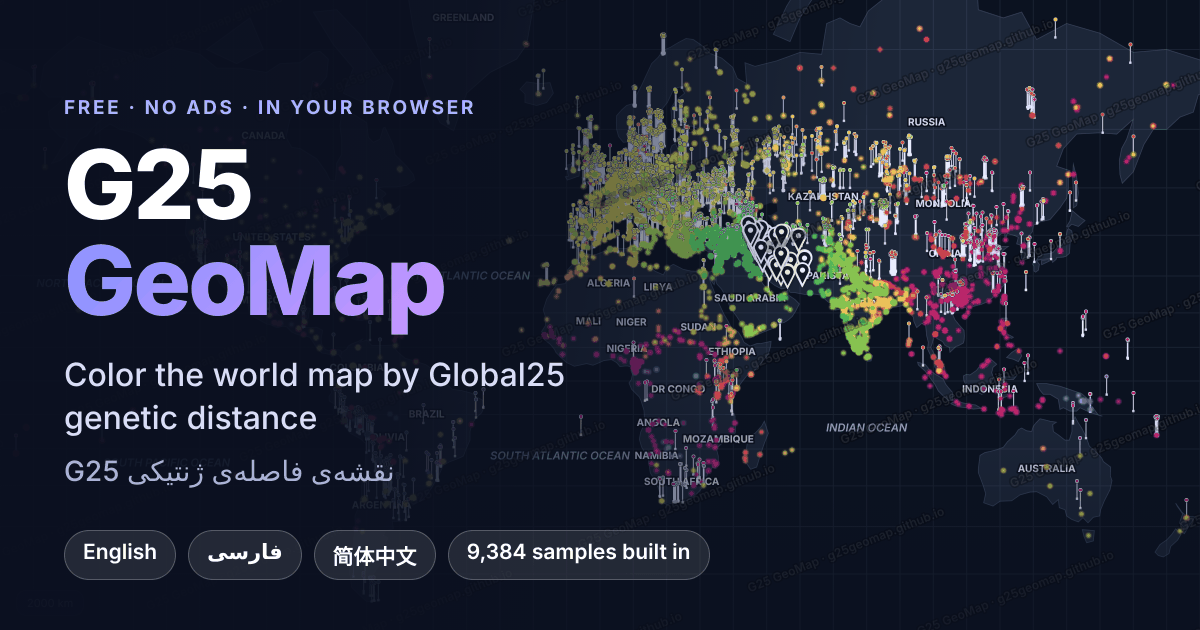
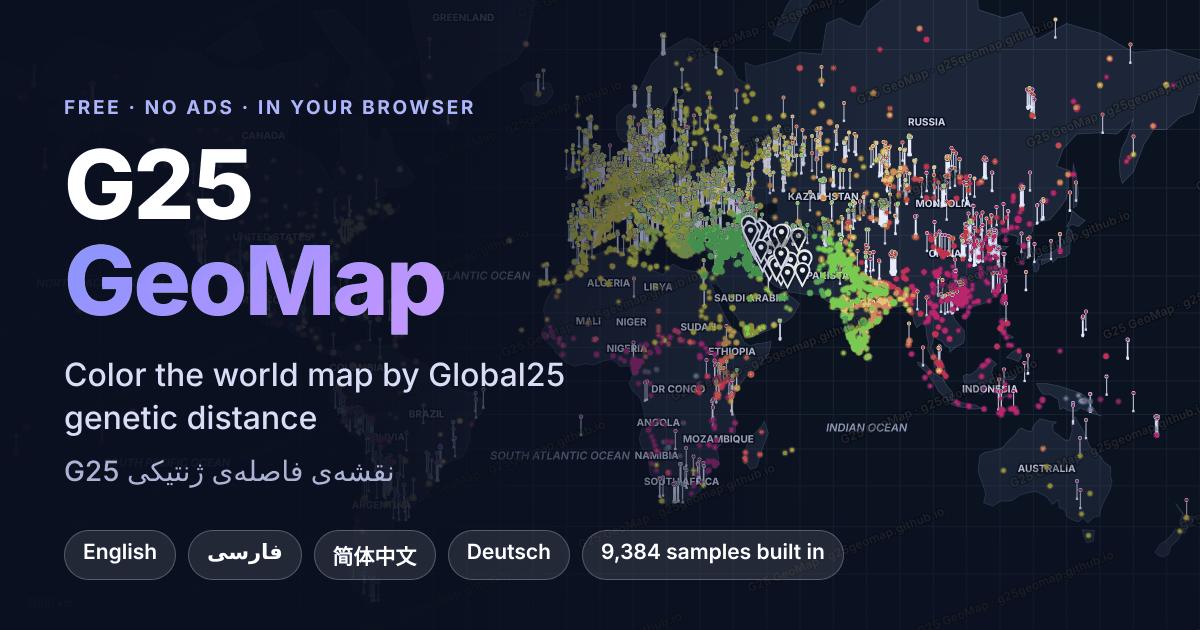
Add German (de): interface, About and Feedback pages
- lang/de.json (217 interface + 32 page strings), about-de.html, feedback-de.html
- German is registered in the language menu, the hreflang clusters, the sitemap and the JSON-LD
- the social preview image lists Deutsch next to English, Persian and Chinese

Claude-Session: https://claude.ai/code/session_019TTGuyvGB9n4azmbKhvDKb

diff --git a/about-de.html b/about-de.html
@@ -1,0 +1,80 @@
+<!doctype html>
+<html lang="de" dir="ltr">
+<head>
+<meta charset="utf-8">
+<meta name="viewport" content="width=device-width, initial-scale=1">
+<title>Über G25 GeoMap – kostenlose Karte der genetischen G25-Distanz</title>
+<meta name="description" content="Kostenlose Online-Karte, die die Welt nach der genetischen Distanz (Global25, G25) zu den von Ihnen gewählten Proben einfärbt. Tausende Proben integriert, nichts hochzuladen, alles im Browser. Mehrere Sprachen.">
+<meta name="robots" content="index,follow">
+<link rel="canonical" href="https://g25geomap.github.io/about-de.html">
+<link rel="alternate" hreflang="en" href="https://g25geomap.github.io/about.html">
+<link rel="alternate" hreflang="fa" href="https://g25geomap.github.io/about-fa.html">
+<link rel="alternate" hreflang="zh-Hans" href="https://g25geomap.github.io/about-zh-hans.html">
+<link rel="alternate" hreflang="de" href="https://g25geomap.github.io/about-de.html">
+<link rel="alternate" hreflang="x-default" href="https://g25geomap.github.io/about.html">
+<link rel="icon" type="image/png" href="assets/favicon.png">
+<meta property="og:type" content="website">
+<meta property="og:title" content="Über G25 GeoMap – kostenlose Karte der genetischen G25-Distanz">
+<meta property="og:description" content="Kostenlose Online-Karte, die die Welt nach der genetischen Distanz (Global25, G25) zu den von Ihnen gewählten Proben einfärbt. Tausende Proben integriert, nichts hochzuladen, alles im Browser. Mehrere Sprachen.">
+<meta property="og:url" content="https://g25geomap.github.io/about-de.html">
+<meta property="og:image" content="https://g25geomap.github.io/assets/og-image.png">
+<meta property="og:locale" content="de_DE">
+<meta property="og:locale:alternate" content="en_US">
+<meta property="og:locale:alternate" content="fa_IR">
+<meta property="og:locale:alternate" content="zh_CN">
+<style>
+:root{--bg:#f6f7fc;--surface:#fff;--ink:#141a33;--ink2:#4a5273;--line:#e3e6f2;--accent:#5b6cff;--accent2:#8b5cff}
+@media (prefers-color-scheme:dark){:root{--bg:#0b1020;--surface:#141a33;--ink:#eaedfb;--ink2:#a9b1d3;--line:#252d52}}
+*{box-sizing:border-box}
+body{margin:0;background:var(--bg);color:var(--ink);font:16px/1.75 system-ui,-apple-system,"Segoe UI",Roboto,Tahoma,sans-serif}
+main{max-width:820px;margin:0 auto;padding:28px 20px 64px}
+header.top{display:flex;align-items:center;gap:12px;flex-wrap:wrap;margin-bottom:8px}
+header.top a.brand{font-weight:800;color:var(--ink);text-decoration:none;font-size:18px}
+header.top .sp{flex:1}
+a{color:var(--accent)}
+.cta{display:inline-block;background:linear-gradient(135deg,var(--accent),var(--accent2));color:#fff!important;text-decoration:none;padding:10px 18px;border-radius:12px;font-weight:700}
+.cta.alt{background:linear-gradient(135deg,#ff6b9d,#ff8e53)}
+h1{font-size:32px;line-height:1.25;margin:18px 0 10px;letter-spacing:-.5px}
+h2{font-size:21px;margin:34px 0 8px}
+p,li{color:var(--ink2)}
+li{margin:6px 0}
+code{background:var(--surface);border:1px solid var(--line);border-radius:6px;padding:1px 6px;font-size:.92em;direction:ltr;unicode-bidi:isolate}
+.card{background:var(--surface);border:1px solid var(--line);border-radius:16px;padding:18px 20px;margin:18px 0}
+.row{display:flex;gap:12px;flex-wrap:wrap;margin:18px 0}
+img.hero{max-width:100%;border-radius:16px;border:1px solid var(--line);margin:16px 0}
+footer{margin-top:40px;color:var(--ink2);font-size:14px}
+details.lm{position:relative}
+details.lm>summary{list-style:none;cursor:pointer;display:inline-flex;align-items:center;gap:6px;padding:6px 11px;border:1px solid var(--line);border-radius:10px;background:var(--surface);color:var(--ink);font-size:14px;line-height:1.5;user-select:none}
+details.lm>summary::-webkit-details-marker{display:none}
+details.lm>summary:hover,details.lm[open]>summary,details.lm>summary:focus-visible{border-color:var(--accent)}
+details.lm svg{flex:none;opacity:.8}
+details.lm ul{position:absolute;inset-inline-end:0;top:calc(100% + 6px);z-index:5;margin:0;padding:6px;list-style:none;min-width:190px;max-height:min(60vh,420px);overflow:auto;background:var(--surface);border:1px solid var(--line);border-radius:12px;box-shadow:0 12px 34px rgba(10,20,50,.2)}
+details.lm li{margin:0}
+details.lm li a{display:block;padding:6px 10px;border-radius:8px;color:var(--ink);text-decoration:none;font-size:14px;line-height:1.5;white-space:nowrap}
+details.lm li a:hover,details.lm li a:focus-visible{background:var(--bg);color:var(--accent)}
+details.lm li a[aria-current]{font-weight:700;color:var(--accent)}
+html:lang(zh-Hans) body{font-family:system-ui,-apple-system,"PingFang SC","Microsoft YaHei","Noto Sans CJK SC","Noto Sans SC",sans-serif}
+html:lang(zh-Hant) body{font-family:system-ui,-apple-system,"PingFang TC","Microsoft JhengHei","Noto Sans CJK TC","Noto Sans TC",sans-serif}
+html:lang(ja) body{font-family:system-ui,-apple-system,"Hiragino Sans","Yu Gothic UI","Meiryo","Noto Sans CJK JP","Noto Sans JP",sans-serif}
+html:lang(ko) body{font-family:system-ui,-apple-system,"Apple SD Gothic Neo","Malgun Gothic","Noto Sans CJK KR","Noto Sans KR",sans-serif}
+html:lang(ar) body,html:lang(ur) body{font-family:"Noto Sans Arabic","Noto Naskh Arabic",Tahoma,"Segoe UI",system-ui,-apple-system,Roboto,Arial,sans-serif}
+html:lang(zh) h1,html:lang(ja) h1,html:lang(ko) h1,html:lang(hi) h1,html:lang(bn) h1,html:lang(th) h1,html:lang(hy) h1,html:lang(ka) h1,html[dir=rtl] h1{letter-spacing:normal}
+</style>
+</head>
+<body>
+<main>
+<header class="top"><a class="brand" href="index.html?lang=de">G25 GeoMap</a><span class="sp"></span><a href="feedback-de.html">Feedback</a><details class="lm"><summary aria-label="Sprache"><svg viewBox="0 0 24 24" width="16" height="16" aria-hidden="true" fill="none" stroke="currentColor" stroke-width="1.8" stroke-linecap="round" stroke-linejoin="round"><circle cx="12" cy="12" r="9"/><path d="M3 12h18M12 3c2.5 2.6 3.8 5.6 3.8 9s-1.3 6.4-3.8 9c-2.5-2.6-3.8-5.6-3.8-9S9.5 5.6 12 3z"/></svg><span>Deutsch</span></summary><ul><li><a href="about.html" lang="en" hreflang="en">English</a></li><li><a href="about-fa.html" lang="fa" hreflang="fa">فارسی</a></li><li><a href="about-zh-hans.html" lang="zh-Hans" hreflang="zh-Hans">简体中文</a></li><li><a href="about-de.html" lang="de" hreflang="de" aria-current="true">Deutsch</a></li></ul></details></header>
+<h1>G25 GeoMap – eine kostenlose Karte der genetischen Distanz</h1>
+<p>G25 GeoMap ist ein kostenloses, werbefreies Web-Tool, das eine Weltkarte nach der <b>genetischen Distanz</b> zwischen den von Ihnen angehakten Proben und jeder anderen Probe seines integrierten Datensatzes einfärbt. Die Distanzen sind euklidische Distanzen über die 25 Koordinaten von Global25 (G25); jede andere Probe wird nach ihrer Distanz zur <b>nächsten angehakten Probe</b> eingefärbt.</p>
+<div class="row"><a class="cta" href="index.html?lang=de">Karte öffnen</a><a class="cta alt" href="index.html?lang=de#donate">Die Seite unterstützen</a></div>
+<img class="hero" src="assets/og-image.png" width="1200" height="630" alt="G25 GeoMap" loading="lazy">
+<h2 id="features">Was Sie tun können</h2><ul><li>Erkunden Sie einen integrierten Datensatz mit 9.384 Proben von Global25 (G25) – modern und antik – auf einer Weltkarte. Es muss nichts hochgeladen werden.</li><li>Haken Sie ein ganzes Land oder einzelne Proben an und sehen Sie zu, wie sich die Karte einfärbt: von nah bis fern.</li><li>Filtern Sie moderne und historische Proben sowie nach Quellpräfix; angehakte Proben bleiben immer sichtbar.</li><li>Durchsuchen Sie eine Rangliste der nächsten oder fernsten Proben.</li><li>Speichern Sie die aktuelle Ansicht als PNG-Bild (mit Legende und einem kleinen Wasserzeichen) oder exportieren Sie alle Distanzen als CSV-Tabelle.</li><li>Nutzen Sie die Oberfläche in mehreren Sprachen, im dunklen oder hellen Design.</li></ul><h2 id="howto">So geht’s</h2><ol><li>Öffnen Sie die Karte – der Datensatz wird automatisch geladen.</li><li>Haken Sie im Bereich „Proben“ ein Land oder einzelne Proben an oder klicken Sie auf Punkte der Karte.</li><li>Lesen Sie die Farben anhand der Legende ab; fahren Sie mit der Maus über einen Punkt, um Name und Distanz zu sehen; mit dem Scrollen zoomen Sie, durch Ziehen verschieben Sie die Karte.</li><li>Passen Sie Filter, Farbskala und Darstellung an und speichern Sie dann ein PNG oder CSV.</li></ol><p>Beim ersten Besuch öffnet sich ein kurzer geführter Rundgang, den Sie jederzeit über die Schaltfläche <b>Rundgang</b> erneut öffnen können.</p><h2 id="data">Die Daten</h2><p>Die Karte enthält einen Datensatz, <code>AllG25_final_prefixed_v7.txt</code>: 9.384 Proben, jede mit ihren 25 G25-Koordinaten. Eine Probe wird bei dem Breiten- und Längengrad platziert, der am Ende ihres Namens steht, zum Beispiel <code>Iran_Tehran_Sample-01_35.71_51.41</code>. Namen, die <code>Historical</code> enthalten, gelten als historische Proben, und das Präfix eines Namens zeigt, aus welcher Sammlung die Probe stammt (<code>moriopoulos_</code> 8.299, <code>G25_</code> 1.085 Proben).</p><p>Das Koordinatensystem Global25 (G25) wurde von Davidski (Eurogenes) entwickelt. G25 GeoMap ist ein unabhängiger Viewer: Die Anerkennung für die Probensätze gebührt den Menschen, die sie gesammelt und veröffentlicht haben; die Seite ist weder mit ihnen verbunden noch von ihnen unterstützt.</p><h2 id="privacy">Datenschutz</h2><p>Alles wird in Ihrem Browser mit JavaScript berechnet. Die Seite lädt ihre Datensatzdatei von derselben Seite und sendet nichts über Sie irgendwohin. Es gibt kein Konto, keine Werbung und keine Tracking-Skripte. Die Seite merkt sich nur Ihre Einstellungen (Sprache, Design, Breite der Seitenleiste, ob Sie den Rundgang gesehen oder das Maskottchen ausgeblendet haben) im lokalen Speicher Ihres Browsers.</p><p>Optionale Kartenhintergründe werden von Kachelservern Dritter (Esri oder OpenStreetMap) geladen, die den angezeigten Kartenausschnitt und Ihre IP-Adresse sehen können; der Standardhintergrund „Keine Kacheln“ lädt nichts. Wenn Sie auf die optionale WalletConnect-Spendenschaltfläche klicken, wird eine Wallet-Bibliothek vom jsDelivr-CDN geladen und verbindet sich nur in diesem Moment mit dem WalletConnect-Netzwerk. Wenn Sie die Feedback-Seite öffnen und klicken, um das Kommentarfeld anzuzeigen, wird es von giscus (giscus.app) und GitHub bereitgestellt, die dann Ihre IP-Adresse sehen können; vor dem Klick wird nichts von ihnen geladen.</p><h2 id="support">Die Seite unterstützen</h2><p>G25 GeoMap ist kostenlos. Wenn es Ihnen geholfen hat und Sie Danke sagen möchten, können Sie eine kleine Krypto-Spende senden – sie ist völlig freiwillig. Öffnen Sie Ihre Wallet mit einem Klick oder kopieren Sie eine Adresse (zuerst USDT auf TRON, dann USDT und USDC in anderen Netzwerken, TRX, ETH, BNB, BTC, TON, SOL). Jeder Betrag wird geschätzt.</p><h2 id="feedback">Feedback &amp; Vorschläge</h2><p>Einen Fehler gefunden oder Kritik bzw. einen Vorschlag? Hinterlassen Sie einen Kommentar auf der <a href="feedback-de.html">Feedback-Seite</a>. Kommentare sind öffentlich und nutzen Ihr kostenloses GitHub-Konto; Sie können auch direkt auf GitHub ein Issue eröffnen.</p><h2 id="notes">Gut zu wissen</h2><p>Dieses Tool dient der Bildung und der Neugier. Distanzen zwischen Proben sind eine statistische Zusammenfassung genetischer Ähnlichkeit und stellen keine medizinische, rechtliche oder Herkunftsberatung dar.</p><p>Optionale Basiskarten-Kacheln (OpenStreetMap-Mitwirkende, Esri) werden nur von ihren Anbietern geladen, wenn Sie sie auswählen. Mit dieser Seite erstellte Karten und PNG-Bilder tragen ein kleines Wasserzeichen mit dem Namen der Seite.</p><p>Die Oberfläche und diese Seiten sind in mehreren Sprachen verfügbar. Die Übersetzungen wurden mit KI-Unterstützung erstellt und können Fehler enthalten – bitte melden Sie diese auf der Feedback-Seite.</p>
+<footer>&copy; G25 GeoMap &middot; <a href="index.html?lang=de">Karte öffnen</a> &middot; <a href="feedback-de.html">Feedback</a></footer>
+</main>
+<script>
+(function(){var d=document.querySelector('details.lm');if(!d)return;
+document.addEventListener('click',function(e){if(d.open&&!d.contains(e.target))d.open=false;});
+document.addEventListener('keydown',function(e){if(e.key==='Escape'&&d.open){d.open=false;d.querySelector('summary').focus();}});})();
+</script>
+</body>
+</html>

diff --git a/feedback-de.html b/feedback-de.html
@@ -1,0 +1,99 @@
+<!doctype html>
+<html lang="de" dir="ltr">
+<head>
+<meta charset="utf-8">
+<meta name="viewport" content="width=device-width, initial-scale=1">
+<title>Feedback &amp; Vorschläge – G25 GeoMap</title>
+<meta name="description" content="Kritik, Ideen, ein gefundener Fehler, eine vermisste Funktion – all das macht das Tool besser. Hinterlassen Sie unten einen Kommentar. Kommentare sind öffentlich, und zum Schreiben benötigen Sie ein kostenloses GitHub-Konto.">
+<meta name="robots" content="index,follow">
+<link rel="canonical" href="https://g25geomap.github.io/feedback-de.html">
+<link rel="alternate" hreflang="en" href="https://g25geomap.github.io/feedback.html">
+<link rel="alternate" hreflang="fa" href="https://g25geomap.github.io/feedback-fa.html">
+<link rel="alternate" hreflang="zh-Hans" href="https://g25geomap.github.io/feedback-zh-hans.html">
+<link rel="alternate" hreflang="de" href="https://g25geomap.github.io/feedback-de.html">
+<link rel="alternate" hreflang="x-default" href="https://g25geomap.github.io/feedback.html">
+<link rel="icon" type="image/png" href="assets/favicon.png">
+<style>
+:root{--bg:#f6f7fc;--surface:#fff;--ink:#141a33;--ink2:#4a5273;--line:#e3e6f2;--accent:#5b6cff;--accent2:#8b5cff}
+@media (prefers-color-scheme:dark){:root{--bg:#0b1020;--surface:#141a33;--ink:#eaedfb;--ink2:#a9b1d3;--line:#252d52}}
+*{box-sizing:border-box}
+body{margin:0;background:var(--bg);color:var(--ink);font:16px/1.75 system-ui,-apple-system,"Segoe UI",Roboto,Tahoma,sans-serif}
+main{max-width:820px;margin:0 auto;padding:28px 20px 64px}
+header.top{display:flex;align-items:center;gap:12px;flex-wrap:wrap;margin-bottom:8px}
+header.top a.brand{font-weight:800;color:var(--ink);text-decoration:none;font-size:18px}
+header.top .sp{flex:1}
+a{color:var(--accent)}
+.cta{display:inline-block;background:linear-gradient(135deg,var(--accent),var(--accent2));color:#fff!important;text-decoration:none;padding:10px 18px;border-radius:12px;font-weight:700}
+.cta.alt{background:linear-gradient(135deg,#ff6b9d,#ff8e53)}
+h1{font-size:32px;line-height:1.25;margin:18px 0 10px;letter-spacing:-.5px}
+h2{font-size:21px;margin:34px 0 8px}
+p,li{color:var(--ink2)}
+li{margin:6px 0}
+code{background:var(--surface);border:1px solid var(--line);border-radius:6px;padding:1px 6px;font-size:.92em;direction:ltr;unicode-bidi:isolate}
+.card{background:var(--surface);border:1px solid var(--line);border-radius:16px;padding:18px 20px;margin:18px 0}
+.row{display:flex;gap:12px;flex-wrap:wrap;margin:18px 0}
+img.hero{max-width:100%;border-radius:16px;border:1px solid var(--line);margin:16px 0}
+footer{margin-top:40px;color:var(--ink2);font-size:14px}
+details.lm{position:relative}
+details.lm>summary{list-style:none;cursor:pointer;display:inline-flex;align-items:center;gap:6px;padding:6px 11px;border:1px solid var(--line);border-radius:10px;background:var(--surface);color:var(--ink);font-size:14px;line-height:1.5;user-select:none}
+details.lm>summary::-webkit-details-marker{display:none}
+details.lm>summary:hover,details.lm[open]>summary,details.lm>summary:focus-visible{border-color:var(--accent)}
+details.lm svg{flex:none;opacity:.8}
+details.lm ul{position:absolute;inset-inline-end:0;top:calc(100% + 6px);z-index:5;margin:0;padding:6px;list-style:none;min-width:190px;max-height:min(60vh,420px);overflow:auto;background:var(--surface);border:1px solid var(--line);border-radius:12px;box-shadow:0 12px 34px rgba(10,20,50,.2)}
+details.lm li{margin:0}
+details.lm li a{display:block;padding:6px 10px;border-radius:8px;color:var(--ink);text-decoration:none;font-size:14px;line-height:1.5;white-space:nowrap}
+details.lm li a:hover,details.lm li a:focus-visible{background:var(--bg);color:var(--accent)}
+details.lm li a[aria-current]{font-weight:700;color:var(--accent)}
+html:lang(zh-Hans) body{font-family:system-ui,-apple-system,"PingFang SC","Microsoft YaHei","Noto Sans CJK SC","Noto Sans SC",sans-serif}
+html:lang(zh-Hant) body{font-family:system-ui,-apple-system,"PingFang TC","Microsoft JhengHei","Noto Sans CJK TC","Noto Sans TC",sans-serif}
+html:lang(ja) body{font-family:system-ui,-apple-system,"Hiragino Sans","Yu Gothic UI","Meiryo","Noto Sans CJK JP","Noto Sans JP",sans-serif}
+html:lang(ko) body{font-family:system-ui,-apple-system,"Apple SD Gothic Neo","Malgun Gothic","Noto Sans CJK KR","Noto Sans KR",sans-serif}
+html:lang(ar) body,html:lang(ur) body{font-family:"Noto Sans Arabic","Noto Naskh Arabic",Tahoma,"Segoe UI",system-ui,-apple-system,Roboto,Arial,sans-serif}
+html:lang(zh) h1,html:lang(ja) h1,html:lang(ko) h1,html:lang(hi) h1,html:lang(bn) h1,html:lang(th) h1,html:lang(hy) h1,html:lang(ka) h1,html[dir=rtl] h1{letter-spacing:normal}
+
+.fbcard{margin:22px 0}
+button.cta{border:0;cursor:pointer;font:inherit;font-weight:700}
+.note{font-size:14px;color:var(--ink2);margin:10px 0 0}
+#comments{margin-top:18px;min-height:40px}
+.giscus,.giscus-frame{width:100%}
+[hidden]{display:none!important}
+</style>
+<script src="assets/feedback-config.js"></script>
+</head>
+<body>
+<main>
+<header class="top"><a class="brand" href="index.html?lang=de">G25 GeoMap</a><span class="sp"></span><a href="about-de.html">Info</a><details class="lm"><summary aria-label="Sprache"><svg viewBox="0 0 24 24" width="16" height="16" aria-hidden="true" fill="none" stroke="currentColor" stroke-width="1.8" stroke-linecap="round" stroke-linejoin="round"><circle cx="12" cy="12" r="9"/><path d="M3 12h18M12 3c2.5 2.6 3.8 5.6 3.8 9s-1.3 6.4-3.8 9c-2.5-2.6-3.8-5.6-3.8-9S9.5 5.6 12 3z"/></svg><span>Deutsch</span></summary><ul><li><a href="feedback.html" lang="en" hreflang="en">English</a></li><li><a href="feedback-fa.html" lang="fa" hreflang="fa">فارسی</a></li><li><a href="feedback-zh-hans.html" lang="zh-Hans" hreflang="zh-Hans">简体中文</a></li><li><a href="feedback-de.html" lang="de" hreflang="de" aria-current="true">Deutsch</a></li></ul></details></header>
+<h1>Feedback &amp; Vorschläge</h1>
+<p>Kritik, Ideen, ein gefundener Fehler, eine vermisste Funktion – all das macht das Tool besser. Hinterlassen Sie unten einen Kommentar. Kommentare sind öffentlich, und zum Schreiben benötigen Sie ein kostenloses GitHub-Konto.</p>
+<div class="card fbcard">
+<div id="ask" class="row"><button class="cta" id="showC" type="button" hidden>Kommentarfeld anzeigen</button><a class="cta alt" id="issueA" href="https://github.com/G25geomap/G25geomap.github.io/issues/new?title=Feedback%20zu%20G25%20GeoMap" target="_blank" rel="noopener">Oder ein Issue auf GitHub eröffnen</a></div>
+<p class="note" id="noteC" hidden>Ein Klick auf die Schaltfläche lädt das Kommentarfeld von giscus.app (es läuft über GitHub Discussions), das dann Ihre IP-Adresse sehen kann. Vor dem Klick wird nichts geladen.</p>
+<p class="note" id="soonC" hidden>Das Kommentarfeld wird gerade eingerichtet. Bis es bereit ist, nutzen Sie bitte stattdessen den GitHub-Link.</p>
+<div id="comments"></div>
+</div>
+<div class="row"><a class="cta" href="index.html?lang=de">Zurück zur Karte</a></div>
+<footer>&copy; G25 GeoMap</footer>
+</main>
+<script>
+(function(){
+  var C=window.G25_FEEDBACK||{}, ok=!!(C.repo&&C.repoId&&C.category&&C.categoryId);
+  var show=document.getElementById('showC'), note=document.getElementById('noteC'), soon=document.getElementById('soonC');
+  if(ok){ show.hidden=false; note.hidden=false; } else { soon.hidden=false; }
+  show.addEventListener('click',function(){
+    show.hidden=true; note.hidden=true;
+    var dark=!!(window.matchMedia&&matchMedia('(prefers-color-scheme: dark)').matches), s=document.createElement('script');
+    s.src='https://giscus.app/client.js'; s.async=true; s.crossOrigin='anonymous';
+    var a={'data-repo':C.repo,'data-repo-id':C.repoId,'data-category':C.category,'data-category-id':C.categoryId,'data-mapping':'specific','data-term':'Feedback and suggestions',
+      'data-strict':'0','data-reactions-enabled':'1','data-emit-metadata':'0','data-input-position':'top','data-theme':dark?'dark':'light','data-lang':'de','data-loading':'lazy'};
+    for(var k in a) s.setAttribute(k,a[k]);
+    document.getElementById('comments').appendChild(s);
+  });
+})();
+</script>
+<script>
+(function(){var d=document.querySelector('details.lm');if(!d)return;
+document.addEventListener('click',function(e){if(d.open&&!d.contains(e.target))d.open=false;});
+document.addEventListener('keydown',function(e){if(e.key==='Escape'&&d.open){d.open=false;d.querySelector('summary').focus();}});})();
+</script>
+</body>
+</html>

diff --git a/index.html b/index.html
@@ -21,11 +21,12 @@
 <meta property="og:locale" content="en_US">
 <meta property="og:locale:alternate" content="fa_IR">
 <meta property="og:locale:alternate" content="zh_CN">
+<meta property="og:locale:alternate" content="de_DE">
 <meta name="twitter:card" content="summary_large_image">
 <meta name="twitter:title" content="G25 GeoMap – Free G25 genetic distance map in your browser">
 <meta name="twitter:description" content="Free online map that colors the world by Global25 (G25) genetic distance from the samples you pick. Thousands of samples built in, nothing to upload, all in your browser. Several languages.">
 <meta name="twitter:image" content="https://g25geomap.github.io/assets/og-image.png">
-<script type="application/ld+json">{"@context": "https://schema.org", "@type": "WebApplication", "name": "G25 GeoMap", "url": "https://g25geomap.github.io/", "description": "Free online map that colors the world by Global25 (G25) genetic distance from the samples you pick. Thousands of samples built in, nothing to upload, all in your browser. Several languages.", "applicationCategory": "EducationalApplication", "operatingSystem": "Any (web browser)", "browserRequirements": "Requires JavaScript", "inLanguage": ["en", "fa", "zh-Hans"], "isAccessibleForFree": true, "image": "https://g25geomap.github.io/assets/og-image.png", "offers": {"@type": "Offer", "price": "0", "priceCurrency": "USD"}}</script>
+<script type="application/ld+json">{"@context": "https://schema.org", "@type": "WebApplication", "name": "G25 GeoMap", "url": "https://g25geomap.github.io/", "description": "Free online map that colors the world by Global25 (G25) genetic distance from the samples you pick. Thousands of samples built in, nothing to upload, all in your browser. Several languages.", "applicationCategory": "EducationalApplication", "operatingSystem": "Any (web browser)", "browserRequirements": "Requires JavaScript", "inLanguage": ["en", "fa", "zh-Hans", "de"], "isAccessibleForFree": true, "image": "https://g25geomap.github.io/assets/og-image.png", "offers": {"@type": "Offer", "price": "0", "priceCurrency": "USD"}}</script>
 <style>
 :root{
   --font:Inter,"SF Pro Text","Segoe UI",system-ui,-apple-system,Roboto,"Helvetica Neue",Arial,sans-serif;
@@ -1152,7 +1153,7 @@ var LANGS={
 /*LANGS-END*/
 var SITE=true;            // true in the public website build: donate window, guided tour, demo data, direct tile servers
 var TILEURL={"esri_light": "https://server.arcgisonline.com/ArcGIS/rest/services/Canvas/World_Light_Gray_Base/MapServer/tile/{z}/{y}/{x}", "esri_light_ref": "https://server.arcgisonline.com/ArcGIS/rest/services/Canvas/World_Light_Gray_Reference/MapServer/tile/{z}/{y}/{x}", "esri_dark": "https://server.arcgisonline.com/ArcGIS/rest/services/Canvas/World_Dark_Gray_Base/MapServer/tile/{z}/{y}/{x}", "esri_dark_ref": "https://server.arcgisonline.com/ArcGIS/rest/services/Canvas/World_Dark_Gray_Reference/MapServer/tile/{z}/{y}/{x}", "esri_imagery": "https://server.arcgisonline.com/ArcGIS/rest/services/World_Imagery/MapServer/tile/{z}/{y}/{x}", "esri_places": "https://server.arcgisonline.com/ArcGIS/rest/services/Reference/World_Boundaries_and_Places/MapServer/tile/{z}/{y}/{x}", "esri_streets": "https://server.arcgisonline.com/ArcGIS/rest/services/World_Street_Map/MapServer/tile/{z}/{y}/{x}", "esri_topo": "https://server.arcgisonline.com/ArcGIS/rest/services/World_Topo_Map/MapServer/tile/{z}/{y}/{x}", "osm": "https://tile.openstreetmap.org/{z}/{x}/{y}.png"};       // website build: provider id -> tile URL template (the local app uses its own /tiles/ proxy)
-var LANGS_X={"zh-hans":{"name":"简体中文","dir":"ltr","tag":"zh-Hans","nl":"zh-Hans-u-nu-latn","pl":["other"],"v":"d81520e89e"}};         // website build: the languages beyond the built-in ones, code -> {name,dir,tag,nl,pl,v}; their texts are fetched from lang/<code>.json when a visitor needs them
+var LANGS_X={"zh-hans":{"name":"简体中文","dir":"ltr","tag":"zh-Hans","nl":"zh-Hans-u-nu-latn","pl":["other"],"v":"d81520e89e"},"de":{"name":"Deutsch","dir":"ltr","tag":"de","nl":"de-u-nu-latn","pl":["one","other"],"v":"d52764f78e"}};         // website build: the languages beyond the built-in ones, code -> {name,dir,tag,nl,pl,v}; their texts are fetched from lang/<code>.json when a visitor needs them
 function hasL(k){ return Object.prototype.hasOwnProperty.call(LANGS,k); }   // 'constructor' / '__proto__' in the stored language must not count as a language
 function hasX(k){ return Object.prototype.hasOwnProperty.call(LANGS_X,k); }
 function hasAny(k){ return hasL(k)||hasX(k); }
@@ -3015,7 +3016,7 @@ window.__g25={get refView(){return refView;},get refDown(){return refDown;},get 
 <noscript><div style="max-width:720px;margin:40px auto;padding:0 20px;font:16px/1.6 system-ui,sans-serif;color:#222;background:#fff">
 <h1>G25 GeoMap</h1>
 <p>G25 GeoMap is a free tool that colors a world map by Global25 (G25) genetic distance from the samples you choose. It needs JavaScript; everything runs in your browser.</p>
-<p><a href="about.html" lang="en" hreflang="en">About &amp; how it works</a> &middot; <a href="about-fa.html" lang="fa" hreflang="fa">فارسی</a> &middot; <a href="about-zh-hans.html" lang="zh-Hans" hreflang="zh-Hans">简体中文</a></p>
+<p><a href="about.html" lang="en" hreflang="en">About &amp; how it works</a> &middot; <a href="about-fa.html" lang="fa" hreflang="fa">فارسی</a> &middot; <a href="about-zh-hans.html" lang="zh-Hans" hreflang="zh-Hans">简体中文</a> &middot; <a href="about-de.html" lang="de" hreflang="de">Deutsch</a></p>
 </div></noscript>
 </body>
 </html>

diff --git a/about-fa.html b/about-fa.html
@@ -10,6 +10,7 @@
 <link rel="alternate" hreflang="en" href="https://g25geomap.github.io/about.html">
 <link rel="alternate" hreflang="fa" href="https://g25geomap.github.io/about-fa.html">
 <link rel="alternate" hreflang="zh-Hans" href="https://g25geomap.github.io/about-zh-hans.html">
+<link rel="alternate" hreflang="de" href="https://g25geomap.github.io/about-de.html">
 <link rel="alternate" hreflang="x-default" href="https://g25geomap.github.io/about.html">
 <link rel="icon" type="image/png" href="assets/favicon.png">
 <meta property="og:type" content="website">
@@ -20,6 +21,7 @@
 <meta property="og:locale" content="fa_IR">
 <meta property="og:locale:alternate" content="en_US">
 <meta property="og:locale:alternate" content="zh_CN">
+<meta property="og:locale:alternate" content="de_DE">
 <style>
 :root{--bg:#f6f7fc;--surface:#fff;--ink:#141a33;--ink2:#4a5273;--line:#e3e6f2;--accent:#5b6cff;--accent2:#8b5cff}
 @media (prefers-color-scheme:dark){:root{--bg:#0b1020;--surface:#141a33;--ink:#eaedfb;--ink2:#a9b1d3;--line:#252d52}}
@@ -61,7 +63,7 @@ html:lang(zh) h1,html:lang(ja) h1,html:lang(ko) h1,html:lang(hi) h1,html:lang(bn
 </head>
 <body>
 <main>
-<header class="top"><a class="brand" href="index.html?lang=fa">G25 GeoMap</a><span class="sp"></span><a href="feedback-fa.html">انتقادات و پیشنهادات</a><details class="lm"><summary aria-label="زبان"><svg viewBox="0 0 24 24" width="16" height="16" aria-hidden="true" fill="none" stroke="currentColor" stroke-width="1.8" stroke-linecap="round" stroke-linejoin="round"><circle cx="12" cy="12" r="9"/><path d="M3 12h18M12 3c2.5 2.6 3.8 5.6 3.8 9s-1.3 6.4-3.8 9c-2.5-2.6-3.8-5.6-3.8-9S9.5 5.6 12 3z"/></svg><span>فارسی</span></summary><ul><li><a href="about.html" lang="en" hreflang="en">English</a></li><li><a href="about-fa.html" lang="fa" hreflang="fa" aria-current="true">فارسی</a></li><li><a href="about-zh-hans.html" lang="zh-Hans" hreflang="zh-Hans">简体中文</a></li></ul></details></header>
+<header class="top"><a class="brand" href="index.html?lang=fa">G25 GeoMap</a><span class="sp"></span><a href="feedback-fa.html">انتقادات و پیشنهادات</a><details class="lm"><summary aria-label="زبان"><svg viewBox="0 0 24 24" width="16" height="16" aria-hidden="true" fill="none" stroke="currentColor" stroke-width="1.8" stroke-linecap="round" stroke-linejoin="round"><circle cx="12" cy="12" r="9"/><path d="M3 12h18M12 3c2.5 2.6 3.8 5.6 3.8 9s-1.3 6.4-3.8 9c-2.5-2.6-3.8-5.6-3.8-9S9.5 5.6 12 3z"/></svg><span>فارسی</span></summary><ul><li><a href="about.html" lang="en" hreflang="en">English</a></li><li><a href="about-fa.html" lang="fa" hreflang="fa" aria-current="true">فارسی</a></li><li><a href="about-zh-hans.html" lang="zh-Hans" hreflang="zh-Hans">简体中文</a></li><li><a href="about-de.html" lang="de" hreflang="de">Deutsch</a></li></ul></details></header>
 <h1>G25 GeoMap – نقشهی رایگان فاصلهی ژنتیکی</h1>
 <p>G25 GeoMap ابزاری آنلاین، رایگان و بدون تبلیغ است که نقشهی جهان را بر اساس <b>فاصلهی ژنتیکی</b> بین نمونههایی که تیک میزنید و همهی نمونههای دیگرِ مجموعهدادهی داخلیاش رنگ میکند. فاصله همان فاصلهی اقلیدسی روی ۲۵ مختصات Global25 (G25) است و هر نمونهی دیگر با فاصلهاش تا <b>نزدیکترین نمونهی تیکخورده</b> رنگ میشود.</p>
 <div class="row"><a class="cta" href="index.html?lang=fa">باز کردن نقشه</a><a class="cta alt" href="index.html?lang=fa#donate">حمایت از سایت</a></div>

diff --git a/about-zh-hans.html b/about-zh-hans.html
@@ -10,6 +10,7 @@
 <link rel="alternate" hreflang="en" href="https://g25geomap.github.io/about.html">
 <link rel="alternate" hreflang="fa" href="https://g25geomap.github.io/about-fa.html">
 <link rel="alternate" hreflang="zh-Hans" href="https://g25geomap.github.io/about-zh-hans.html">
+<link rel="alternate" hreflang="de" href="https://g25geomap.github.io/about-de.html">
 <link rel="alternate" hreflang="x-default" href="https://g25geomap.github.io/about.html">
 <link rel="icon" type="image/png" href="assets/favicon.png">
 <meta property="og:type" content="website">
@@ -20,6 +21,7 @@
 <meta property="og:locale" content="zh_CN">
 <meta property="og:locale:alternate" content="en_US">
 <meta property="og:locale:alternate" content="fa_IR">
+<meta property="og:locale:alternate" content="de_DE">
 <style>
 :root{--bg:#f6f7fc;--surface:#fff;--ink:#141a33;--ink2:#4a5273;--line:#e3e6f2;--accent:#5b6cff;--accent2:#8b5cff}
 @media (prefers-color-scheme:dark){:root{--bg:#0b1020;--surface:#141a33;--ink:#eaedfb;--ink2:#a9b1d3;--line:#252d52}}
@@ -61,7 +63,7 @@ html:lang(zh) h1,html:lang(ja) h1,html:lang(ko) h1,html:lang(hi) h1,html:lang(bn
 </head>
 <body>
 <main>
-<header class="top"><a class="brand" href="index.html?lang=zh-hans">G25 GeoMap</a><span class="sp"></span><a href="feedback-zh-hans.html">反馈</a><details class="lm"><summary aria-label="语言"><svg viewBox="0 0 24 24" width="16" height="16" aria-hidden="true" fill="none" stroke="currentColor" stroke-width="1.8" stroke-linecap="round" stroke-linejoin="round"><circle cx="12" cy="12" r="9"/><path d="M3 12h18M12 3c2.5 2.6 3.8 5.6 3.8 9s-1.3 6.4-3.8 9c-2.5-2.6-3.8-5.6-3.8-9S9.5 5.6 12 3z"/></svg><span>简体中文</span></summary><ul><li><a href="about.html" lang="en" hreflang="en">English</a></li><li><a href="about-fa.html" lang="fa" hreflang="fa">فارسی</a></li><li><a href="about-zh-hans.html" lang="zh-Hans" hreflang="zh-Hans" aria-current="true">简体中文</a></li></ul></details></header>
+<header class="top"><a class="brand" href="index.html?lang=zh-hans">G25 GeoMap</a><span class="sp"></span><a href="feedback-zh-hans.html">反馈</a><details class="lm"><summary aria-label="语言"><svg viewBox="0 0 24 24" width="16" height="16" aria-hidden="true" fill="none" stroke="currentColor" stroke-width="1.8" stroke-linecap="round" stroke-linejoin="round"><circle cx="12" cy="12" r="9"/><path d="M3 12h18M12 3c2.5 2.6 3.8 5.6 3.8 9s-1.3 6.4-3.8 9c-2.5-2.6-3.8-5.6-3.8-9S9.5 5.6 12 3z"/></svg><span>简体中文</span></summary><ul><li><a href="about.html" lang="en" hreflang="en">English</a></li><li><a href="about-fa.html" lang="fa" hreflang="fa">فارسی</a></li><li><a href="about-zh-hans.html" lang="zh-Hans" hreflang="zh-Hans" aria-current="true">简体中文</a></li><li><a href="about-de.html" lang="de" hreflang="de">Deutsch</a></li></ul></details></header>
 <h1>G25 GeoMap——免费的遗传距离地图</h1>
 <p>G25 GeoMap 是一款免费、无广告的网页工具，它根据你勾选的样本与内置数据集中其他所有样本之间的<b>遗传距离</b>为世界地图着色。距离是基于 25 个 Global25（G25）坐标计算的欧氏距离；其他每个样本按其到<b>最近的已勾选样本</b>的距离着色。</p>
 <div class="row"><a class="cta" href="index.html?lang=zh-hans">打开地图</a><a class="cta alt" href="index.html?lang=zh-hans#donate">支持本站</a></div>

diff --git a/about.html b/about.html
@@ -10,6 +10,7 @@
 <link rel="alternate" hreflang="en" href="https://g25geomap.github.io/about.html">
 <link rel="alternate" hreflang="fa" href="https://g25geomap.github.io/about-fa.html">
 <link rel="alternate" hreflang="zh-Hans" href="https://g25geomap.github.io/about-zh-hans.html">
+<link rel="alternate" hreflang="de" href="https://g25geomap.github.io/about-de.html">
 <link rel="alternate" hreflang="x-default" href="https://g25geomap.github.io/about.html">
 <link rel="icon" type="image/png" href="assets/favicon.png">
 <meta property="og:type" content="website">
@@ -20,6 +21,7 @@
 <meta property="og:locale" content="en_US">
 <meta property="og:locale:alternate" content="fa_IR">
 <meta property="og:locale:alternate" content="zh_CN">
+<meta property="og:locale:alternate" content="de_DE">
 <style>
 :root{--bg:#f6f7fc;--surface:#fff;--ink:#141a33;--ink2:#4a5273;--line:#e3e6f2;--accent:#5b6cff;--accent2:#8b5cff}
 @media (prefers-color-scheme:dark){:root{--bg:#0b1020;--surface:#141a33;--ink:#eaedfb;--ink2:#a9b1d3;--line:#252d52}}
@@ -61,7 +63,7 @@ html:lang(zh) h1,html:lang(ja) h1,html:lang(ko) h1,html:lang(hi) h1,html:lang(bn
 </head>
 <body>
 <main>
-<header class="top"><a class="brand" href="index.html?lang=en">G25 GeoMap</a><span class="sp"></span><a href="feedback.html">Feedback</a><details class="lm"><summary aria-label="Language"><svg viewBox="0 0 24 24" width="16" height="16" aria-hidden="true" fill="none" stroke="currentColor" stroke-width="1.8" stroke-linecap="round" stroke-linejoin="round"><circle cx="12" cy="12" r="9"/><path d="M3 12h18M12 3c2.5 2.6 3.8 5.6 3.8 9s-1.3 6.4-3.8 9c-2.5-2.6-3.8-5.6-3.8-9S9.5 5.6 12 3z"/></svg><span>English</span></summary><ul><li><a href="about.html" lang="en" hreflang="en" aria-current="true">English</a></li><li><a href="about-fa.html" lang="fa" hreflang="fa">فارسی</a></li><li><a href="about-zh-hans.html" lang="zh-Hans" hreflang="zh-Hans">简体中文</a></li></ul></details></header>
+<header class="top"><a class="brand" href="index.html?lang=en">G25 GeoMap</a><span class="sp"></span><a href="feedback.html">Feedback</a><details class="lm"><summary aria-label="Language"><svg viewBox="0 0 24 24" width="16" height="16" aria-hidden="true" fill="none" stroke="currentColor" stroke-width="1.8" stroke-linecap="round" stroke-linejoin="round"><circle cx="12" cy="12" r="9"/><path d="M3 12h18M12 3c2.5 2.6 3.8 5.6 3.8 9s-1.3 6.4-3.8 9c-2.5-2.6-3.8-5.6-3.8-9S9.5 5.6 12 3z"/></svg><span>English</span></summary><ul><li><a href="about.html" lang="en" hreflang="en" aria-current="true">English</a></li><li><a href="about-fa.html" lang="fa" hreflang="fa">فارسی</a></li><li><a href="about-zh-hans.html" lang="zh-Hans" hreflang="zh-Hans">简体中文</a></li><li><a href="about-de.html" lang="de" hreflang="de">Deutsch</a></li></ul></details></header>
 <h1>G25 GeoMap – a free genetic distance map</h1>
 <p>G25 GeoMap is a free, ad-free web tool that colors a world map by the <b>genetic distance</b> between the samples you tick and every other sample in its built-in dataset. Distances are Euclidean distances over the 25 Global25 (G25) coordinates; each other sample is colored by its distance to the <b>nearest ticked sample</b>.</p>
 <div class="row"><a class="cta" href="index.html?lang=en">Open the map</a><a class="cta alt" href="index.html?lang=en#donate">Support the site</a></div>

diff --git a/feedback-fa.html b/feedback-fa.html
@@ -10,6 +10,7 @@
 <link rel="alternate" hreflang="en" href="https://g25geomap.github.io/feedback.html">
 <link rel="alternate" hreflang="fa" href="https://g25geomap.github.io/feedback-fa.html">
 <link rel="alternate" hreflang="zh-Hans" href="https://g25geomap.github.io/feedback-zh-hans.html">
+<link rel="alternate" hreflang="de" href="https://g25geomap.github.io/feedback-de.html">
 <link rel="alternate" hreflang="x-default" href="https://g25geomap.github.io/feedback.html">
 <link rel="icon" type="image/png" href="assets/favicon.png">
 <style>
@@ -61,7 +62,7 @@ button.cta{border:0;cursor:pointer;font:inherit;font-weight:700}
 </head>
 <body>
 <main>
-<header class="top"><a class="brand" href="index.html?lang=fa">G25 GeoMap</a><span class="sp"></span><a href="about-fa.html">درباره</a><details class="lm"><summary aria-label="زبان"><svg viewBox="0 0 24 24" width="16" height="16" aria-hidden="true" fill="none" stroke="currentColor" stroke-width="1.8" stroke-linecap="round" stroke-linejoin="round"><circle cx="12" cy="12" r="9"/><path d="M3 12h18M12 3c2.5 2.6 3.8 5.6 3.8 9s-1.3 6.4-3.8 9c-2.5-2.6-3.8-5.6-3.8-9S9.5 5.6 12 3z"/></svg><span>فارسی</span></summary><ul><li><a href="feedback.html" lang="en" hreflang="en">English</a></li><li><a href="feedback-fa.html" lang="fa" hreflang="fa" aria-current="true">فارسی</a></li><li><a href="feedback-zh-hans.html" lang="zh-Hans" hreflang="zh-Hans">简体中文</a></li></ul></details></header>
+<header class="top"><a class="brand" href="index.html?lang=fa">G25 GeoMap</a><span class="sp"></span><a href="about-fa.html">درباره</a><details class="lm"><summary aria-label="زبان"><svg viewBox="0 0 24 24" width="16" height="16" aria-hidden="true" fill="none" stroke="currentColor" stroke-width="1.8" stroke-linecap="round" stroke-linejoin="round"><circle cx="12" cy="12" r="9"/><path d="M3 12h18M12 3c2.5 2.6 3.8 5.6 3.8 9s-1.3 6.4-3.8 9c-2.5-2.6-3.8-5.6-3.8-9S9.5 5.6 12 3z"/></svg><span>فارسی</span></summary><ul><li><a href="feedback.html" lang="en" hreflang="en">English</a></li><li><a href="feedback-fa.html" lang="fa" hreflang="fa" aria-current="true">فارسی</a></li><li><a href="feedback-zh-hans.html" lang="zh-Hans" hreflang="zh-Hans">简体中文</a></li><li><a href="feedback-de.html" lang="de" hreflang="de">Deutsch</a></li></ul></details></header>
 <h1>انتقادات و پیشنهادات</h1>
 <p>انتقاد، ایده، اشتباهی که دیدید یا قابلیتی که کم است — همهی اینها ابزار را بهتر میکند. نظرتان را در پایین بنویسید. نظرها عمومیاند و برای نوشتن آنها به یک حساب رایگان GitHub نیاز دارید.</p>
 <div class="card fbcard">

diff --git a/feedback-zh-hans.html b/feedback-zh-hans.html
@@ -10,6 +10,7 @@
 <link rel="alternate" hreflang="en" href="https://g25geomap.github.io/feedback.html">
 <link rel="alternate" hreflang="fa" href="https://g25geomap.github.io/feedback-fa.html">
 <link rel="alternate" hreflang="zh-Hans" href="https://g25geomap.github.io/feedback-zh-hans.html">
+<link rel="alternate" hreflang="de" href="https://g25geomap.github.io/feedback-de.html">
 <link rel="alternate" hreflang="x-default" href="https://g25geomap.github.io/feedback.html">
 <link rel="icon" type="image/png" href="assets/favicon.png">
 <style>
@@ -61,7 +62,7 @@ button.cta{border:0;cursor:pointer;font:inherit;font-weight:700}
 </head>
 <body>
 <main>
-<header class="top"><a class="brand" href="index.html?lang=zh-hans">G25 GeoMap</a><span class="sp"></span><a href="about-zh-hans.html">关于</a><details class="lm"><summary aria-label="语言"><svg viewBox="0 0 24 24" width="16" height="16" aria-hidden="true" fill="none" stroke="currentColor" stroke-width="1.8" stroke-linecap="round" stroke-linejoin="round"><circle cx="12" cy="12" r="9"/><path d="M3 12h18M12 3c2.5 2.6 3.8 5.6 3.8 9s-1.3 6.4-3.8 9c-2.5-2.6-3.8-5.6-3.8-9S9.5 5.6 12 3z"/></svg><span>简体中文</span></summary><ul><li><a href="feedback.html" lang="en" hreflang="en">English</a></li><li><a href="feedback-fa.html" lang="fa" hreflang="fa">فارسی</a></li><li><a href="feedback-zh-hans.html" lang="zh-Hans" hreflang="zh-Hans" aria-current="true">简体中文</a></li></ul></details></header>
+<header class="top"><a class="brand" href="index.html?lang=zh-hans">G25 GeoMap</a><span class="sp"></span><a href="about-zh-hans.html">关于</a><details class="lm"><summary aria-label="语言"><svg viewBox="0 0 24 24" width="16" height="16" aria-hidden="true" fill="none" stroke="currentColor" stroke-width="1.8" stroke-linecap="round" stroke-linejoin="round"><circle cx="12" cy="12" r="9"/><path d="M3 12h18M12 3c2.5 2.6 3.8 5.6 3.8 9s-1.3 6.4-3.8 9c-2.5-2.6-3.8-5.6-3.8-9S9.5 5.6 12 3z"/></svg><span>简体中文</span></summary><ul><li><a href="feedback.html" lang="en" hreflang="en">English</a></li><li><a href="feedback-fa.html" lang="fa" hreflang="fa">فارسی</a></li><li><a href="feedback-zh-hans.html" lang="zh-Hans" hreflang="zh-Hans" aria-current="true">简体中文</a></li><li><a href="feedback-de.html" lang="de" hreflang="de">Deutsch</a></li></ul></details></header>
 <h1>反馈与建议</h1>
 <p>批评、想法、你发现的错误、你想要的功能——这一切都会让工具变得更好。请在下方留言。评论是公开的，你需要一个免费的 GitHub 账户才能发表。</p>
 <div class="card fbcard">

diff --git a/feedback.html b/feedback.html
@@ -10,6 +10,7 @@
 <link rel="alternate" hreflang="en" href="https://g25geomap.github.io/feedback.html">
 <link rel="alternate" hreflang="fa" href="https://g25geomap.github.io/feedback-fa.html">
 <link rel="alternate" hreflang="zh-Hans" href="https://g25geomap.github.io/feedback-zh-hans.html">
+<link rel="alternate" hreflang="de" href="https://g25geomap.github.io/feedback-de.html">
 <link rel="alternate" hreflang="x-default" href="https://g25geomap.github.io/feedback.html">
 <link rel="icon" type="image/png" href="assets/favicon.png">
 <style>
@@ -61,7 +62,7 @@ button.cta{border:0;cursor:pointer;font:inherit;font-weight:700}
 </head>
 <body>
 <main>
-<header class="top"><a class="brand" href="index.html?lang=en">G25 GeoMap</a><span class="sp"></span><a href="about.html">About</a><details class="lm"><summary aria-label="Language"><svg viewBox="0 0 24 24" width="16" height="16" aria-hidden="true" fill="none" stroke="currentColor" stroke-width="1.8" stroke-linecap="round" stroke-linejoin="round"><circle cx="12" cy="12" r="9"/><path d="M3 12h18M12 3c2.5 2.6 3.8 5.6 3.8 9s-1.3 6.4-3.8 9c-2.5-2.6-3.8-5.6-3.8-9S9.5 5.6 12 3z"/></svg><span>English</span></summary><ul><li><a href="feedback.html" lang="en" hreflang="en" aria-current="true">English</a></li><li><a href="feedback-fa.html" lang="fa" hreflang="fa">فارسی</a></li><li><a href="feedback-zh-hans.html" lang="zh-Hans" hreflang="zh-Hans">简体中文</a></li></ul></details></header>
+<header class="top"><a class="brand" href="index.html?lang=en">G25 GeoMap</a><span class="sp"></span><a href="about.html">About</a><details class="lm"><summary aria-label="Language"><svg viewBox="0 0 24 24" width="16" height="16" aria-hidden="true" fill="none" stroke="currentColor" stroke-width="1.8" stroke-linecap="round" stroke-linejoin="round"><circle cx="12" cy="12" r="9"/><path d="M3 12h18M12 3c2.5 2.6 3.8 5.6 3.8 9s-1.3 6.4-3.8 9c-2.5-2.6-3.8-5.6-3.8-9S9.5 5.6 12 3z"/></svg><span>English</span></summary><ul><li><a href="feedback.html" lang="en" hreflang="en" aria-current="true">English</a></li><li><a href="feedback-fa.html" lang="fa" hreflang="fa">فارسی</a></li><li><a href="feedback-zh-hans.html" lang="zh-Hans" hreflang="zh-Hans">简体中文</a></li><li><a href="feedback-de.html" lang="de" hreflang="de">Deutsch</a></li></ul></details></header>
 <h1>Feedback &amp; suggestions</h1>
 <p>Criticism, ideas, a mistake you found, a feature you miss – all of it makes the tool better. Leave a comment below. Comments are public, and you need a free GitHub account to write one.</p>
 <div class="card fbcard">
